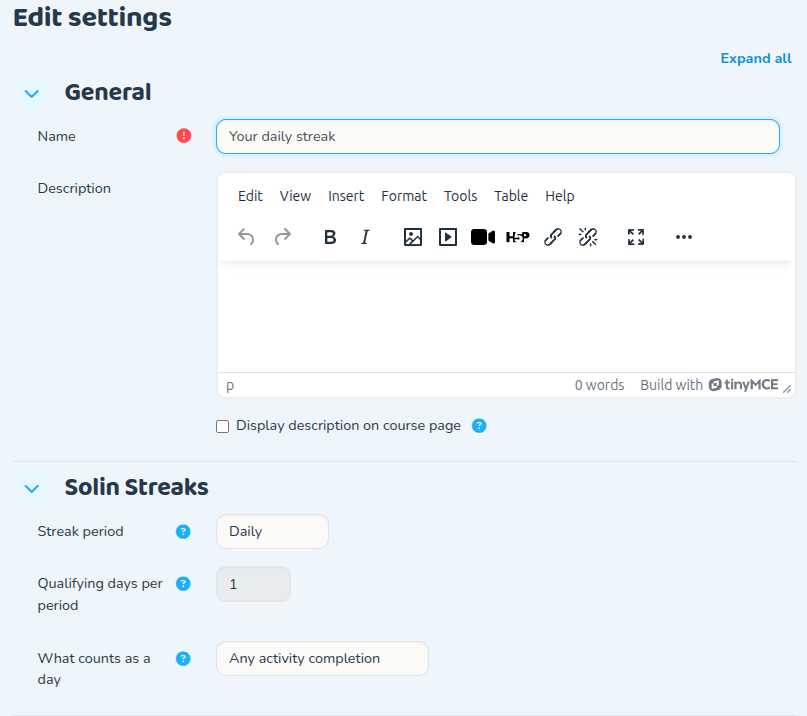
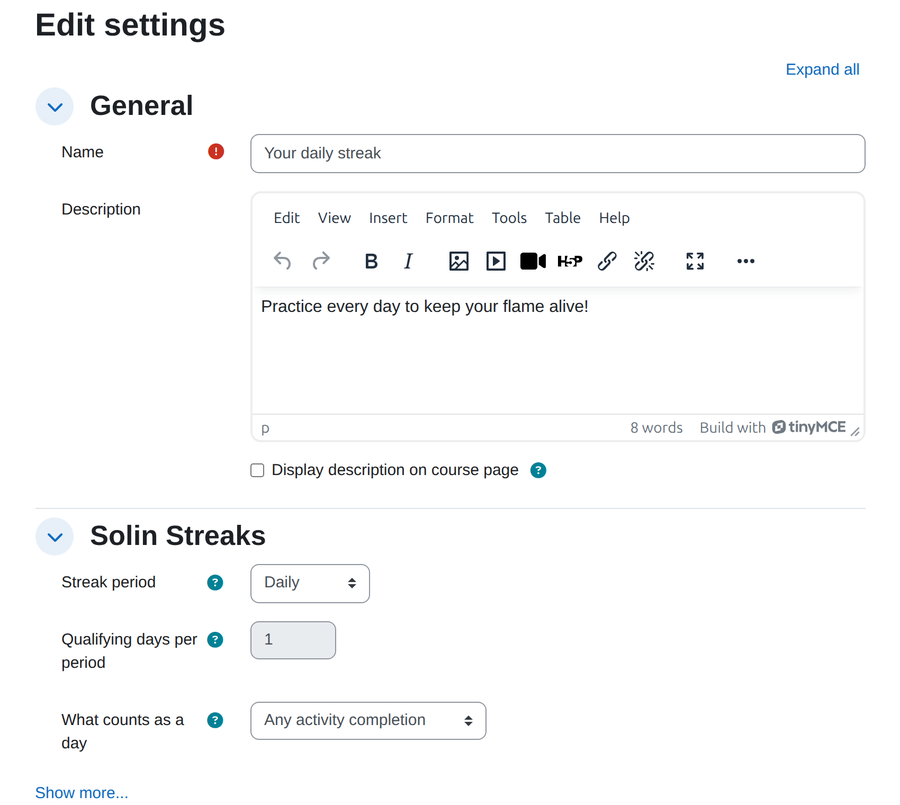
mod_streak: reshoot the activity-form screenshot for the new single section
The README screenshot still showed the pre-0.10.1 form. Retaken against Boost on
Moodle 4.5: one Solin Streaks section with the three shown fields and the
"Show more..." link. README text updated to describe the section and to mention
the weekday mask, which it never listed.

diff --git a/README.md b/README.md
@@ -160,10 +160,12 @@ at any time from the widget.
 
 **Per-activity settings** (on the activity's settings form) let a teacher override the
 cadence and goal, choose the qualifying action, set the end-date mode (course end /
-custom / evergreen), tune the freeze policy and reward, and exclude staff or specific
-roles from the leaderboard.
+custom / evergreen), pick the weekdays that count, tune the freeze policy and reward,
+and exclude staff or specific roles from the leaderboard. They live in a single
+*Solin Streaks* section: the three questions every course has to answer are shown, and
+everything that already has a site-level default sits behind *Show more...*.
 
-![The per-activity settings form, showing the Solin Streaks section: streak period, qualifying days per period, and what counts as a qualifying day](docs/screenshots/activity-settings.png)
+![The per-activity settings form: one Solin Streaks section showing streak period, qualifying days per period and what counts as a qualifying day, with the remaining settings behind a Show more link](docs/screenshots/activity-settings.png)
 
 ## Qualifying actions
 
